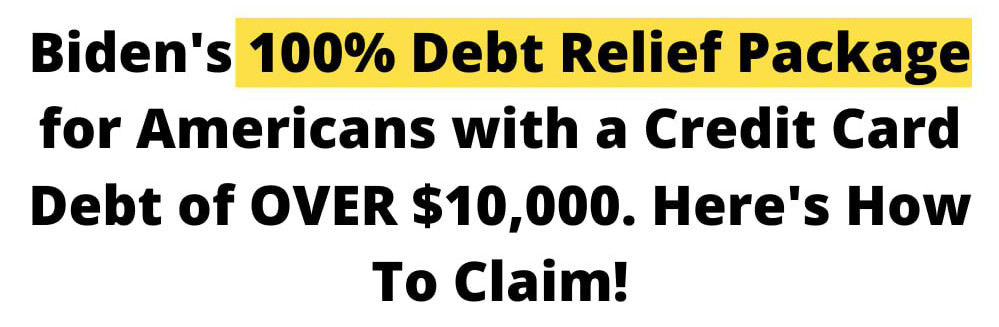
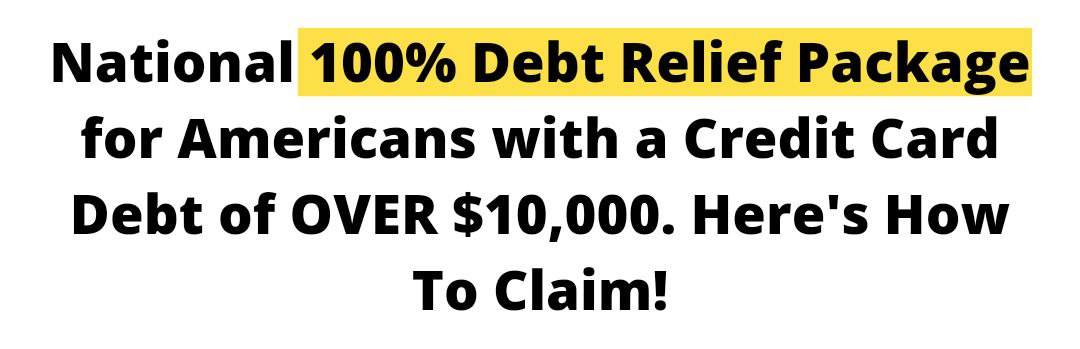
replaced:headline_img_for_engdeb1

diff --git a/src/pages/6_en.tsx b/src/pages/6_en.tsx
@@ -260,7 +260,7 @@ export default function Sixth_SP() {
 							<img className='topic-img-larger' src = {Headline} alt = "head"/>
 							{/* <div className='main-des-title-6'><b>Biden's<span style={{backgroundColor:"#fde047"}}> 100% Debt Relief Package</span> for Americans with a Credit Card Debt of OVER $10,000. Here's How To Claim!</b></div> */}
 							<img className='topic-img-middle' src = {Head_bg} alt = "head"/>
-							<div className='main-des-5'>Americans with over $10,000 in dues are receiving a 100% Financial Forgiveness Under This Biden-Approved Program.</div>
+							<div className='main-des-5'>Americans with over $10,000 in dues are receiving a 100% Financial Forgiveness Under This National Debt Relief Program.</div>
 							<div className='main-des-5' style = {{marginTop:"1rem"}}>The opportunity to enroll under this program ends this weekend, so it's best to <b>get your Relief Check without any delay.</b></div>
 							<div className='main-des-5' style = {{marginTop:"1rem"}}>Simply answer the questions below:</div>
 						</div>
